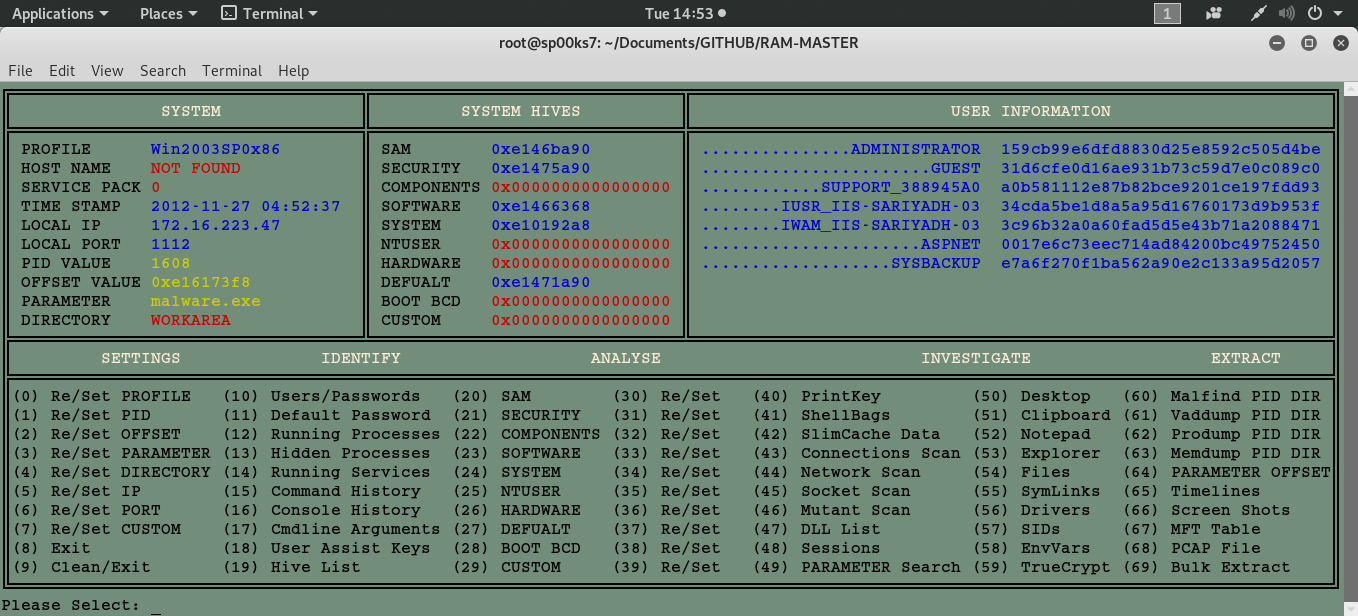
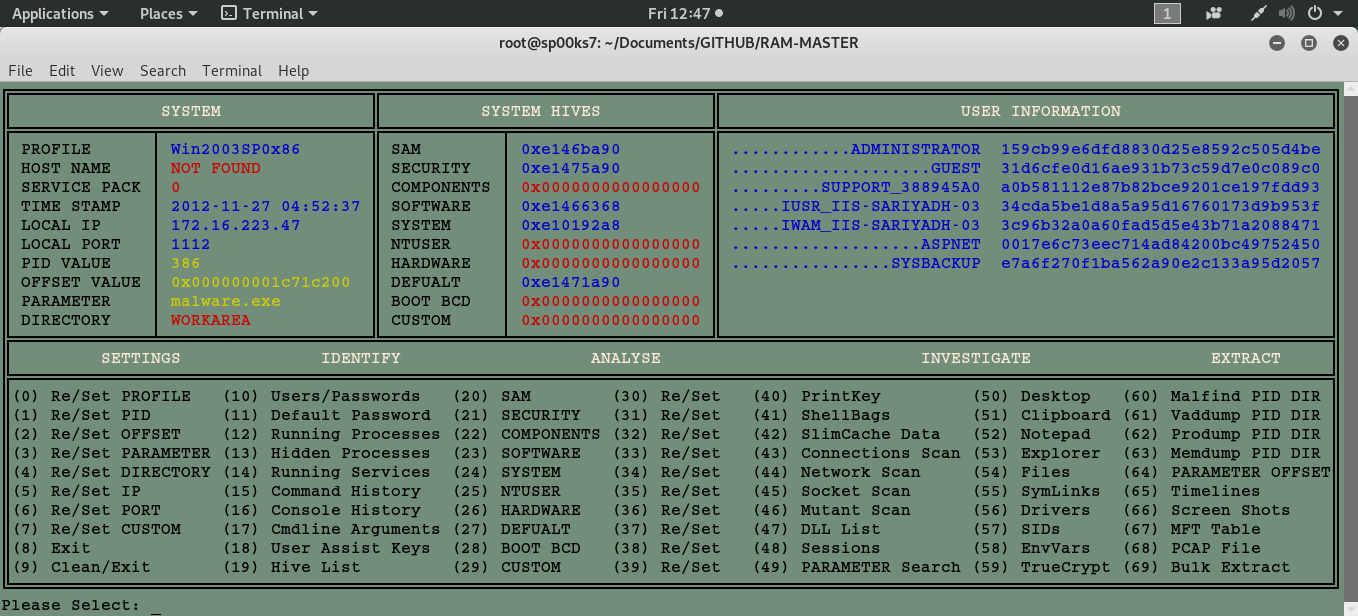
changes

diff --git a/RamMaster.py b/RamMaster.py
@@ -74,7 +74,7 @@ def rpadding(variable,value):
 
 COL1 = 19
 COL2 = 18
-COL3 = 29
+COL3 = 26
 COL4 = 32
 MAN1 = 0
 MAN2 = 0
@@ -308,16 +308,16 @@ os.remove('conn1.txt')
 # -------------------------------------------------------------------------------------
 
 def Display():
-   print u'\u2554' + (u'\u2550')*35 + u'\u2566' + (u'\u2550')*31 + u'\u2566' + (u'\u2550')*64 + u'\u2557'
-   print u'\u2551' + (" ")*15 + colored("SYSTEM",'white') +  (" ")*14 + u'\u2551' + (" ")*9 + colored("SYSTEM HIVES",'white') + (" ")*10 + u'\u2551' + (" ")*26 +  colored("USER INFORMATION",'white') + (" ")*22 + u'\u2551' 
-   print u'\u2560' + (u'\u2550')*35 + u'\u256C' + (u'\u2550')*31 + u'\u256C' + (u'\u2550')*64 + u'\u2563'
+   print u'\u2554' + (u'\u2550')*36 + u'\u2566' + (u'\u2550')*33 + u'\u2566' + (u'\u2550')*61 + u'\u2557'
+   print u'\u2551' + (" ")*15 + colored("SYSTEM",'white') +  (" ")*15 + u'\u2551' + (" ")*10 + colored("SYSTEM HIVES",'white') + (" ")*11 + u'\u2551' + (" ")*24 +  colored("USER INFORMATION",'white') + (" ")*21 + u'\u2551' 
+   print u'\u2560' + (u'\u2550')*14 + u'\u2564' + (u'\u2550')*21 + u'\u256C' + (u'\u2550')*12 + u'\u2564' + (u'\u2550')*20 + u'\u256C' + (u'\u2550')*61 + u'\u2563'
    
-   print u'\u2551' + " PROFILE     ",
+   print u'\u2551' + " PROFILE      " + u'\u2502',
    if PR2 == "UNSELECTED         ":
       print colored(PR2,'red'),
    else:
       print colored(PR2,'blue'),
-   print " " + u'\u2551' + " SAM       ",
+   print u'\u2551' + " SAM        " + u'\u2502',
    if SAM == "0x0000000000000000":
       print colored(SAM,'red'),
    else:
@@ -327,12 +327,12 @@ def Display():
    print colored(PA[0],'blue'),
    print u'\u2551'
    
-   print u'\u2551' + " HOST NAME   ",
+   print u'\u2551' + " HOST NAME    " + u'\u2502',
    if HST == "NOT FOUND          ":
       print colored(HST[:20],'red'),
    else:
       print colored(HST[:20],'blue'),
-   print " " + u'\u2551' + " SECURITY  ",
+   print u'\u2551' + " SECURITY   " + u'\u2502',
    if SEC == "0x0000000000000000":
       print colored(SEC,'red'),
    else:
@@ -342,12 +342,12 @@ def Display():
    print colored(PA[1],'blue'),
    print u'\u2551'
    
-   print u'\u2551' + " SERVICE PACK",
+   print u'\u2551' + " SERVICE PACK " + u'\u2502',
    if SVP == "0                  ":
       print colored(SVP,'red'),
    else:
       print colored(SVP,'blue'),
-   print " " + u'\u2551' + " COMPONENTS",
+   print u'\u2551' + " COMPONENTS " + u'\u2502',
    if COM == "0x0000000000000000":
       print colored(COM,'red'),
    else:
@@ -357,12 +357,12 @@ def Display():
    print colored(PA[2],'blue'),
    print u'\u2551'
    
-   print u'\u2551' + " TIME STAMP  ",
+   print u'\u2551' + " TIME STAMP   " + u'\u2502',
    if DA2 == "NOT FOUND          ":
       print colored(DA2,'red'),
    else:
       print colored(DA2,'blue'),
-   print " " + u'\u2551' + " SOFTWARE  ",
+   print u'\u2551' + " SOFTWARE   " + u'\u2502',
    if SOF == "0x0000000000000000":
       print colored(SOF,'red'),
    else:
@@ -372,12 +372,12 @@ def Display():
    print colored(PA[3],'blue'),
    print u'\u2551'
    
-   print u'\u2551' + " LOCAL IP    ",
+   print u'\u2551' + " LOCAL IP     " + u'\u2502',
    if HIP == "000.000.000.000    ":
       print colored(HIP[:COL1],'red'),
    else:
       print colored(HIP[:COL1],'blue'),
-   print " " + u'\u2551' + " SYSTEM    ",
+   print u'\u2551' + " SYSTEM     " + u'\u2502',
    if SYS == "0x0000000000000000":
       print colored(SYS,'red'),
    else:
@@ -387,12 +387,12 @@ def Display():
    print colored(PA[4],'blue'),
    print u'\u2551'
    
-   print u'\u2551' + " LOCAL PORT  ",
+   print u'\u2551' + " LOCAL PORT   " + u'\u2502',
    if POR == "000                ":
       print colored(POR[:COL1],'red'),
    else:
       print colored(POR[:COL1],'blue'),
-   print " " + u'\u2551' + " NTUSER    ",
+   print u'\u2551' + " NTUSER     " + u'\u2502',
    if NTU == "0x0000000000000000":
       print colored(NTU,'red'),
    else:
@@ -402,12 +402,12 @@ def Display():
    print colored(PA[5],'blue'),
    print u'\u2551'
    
-   print u'\u2551' + " PID VALUE   ",
+   print u'\u2551' + " PID VALUE    " + u'\u2502',
    if PI1 == "0                  ":
       print colored(PI1[:COL1],'red'),
    else:
       print colored(PI1[:COL1],'yellow'),
-   print " " + u'\u2551' + " HARDWARE  ",
+   print u'\u2551' + " HARDWARE   " + u'\u2502',
    if HRD == "0x0000000000000000":
       print colored(HRD,'red'),
    else:
@@ -417,12 +417,12 @@ def Display():
    print colored(PA[6],'blue'),
    print u'\u2551'
    
-   print u'\u2551' + " OFFSET VALUE",
+   print u'\u2551' + " OFFSET VALUE " + u'\u2502',
    if OFF == "0                  ":
       print colored(OFF[:COL1],'red'),
    else:
       print colored(OFF[:COL1],'yellow'),
-   print " " + u'\u2551' + " DEFUALT   ",
+   print u'\u2551' + " DEFUALT    " + u'\u2502',
    if DEF == "0x0000000000000000":
       print colored(DEF,'red'),
    else:
@@ -432,12 +432,12 @@ def Display():
    print colored(PA[7],'blue'),
    print u'\u2551'
    
-   print u'\u2551' + " PARAMETER   ",
+   print u'\u2551' + " PARAMETER    " + u'\u2502',
    if PRM == "UNSELECTED         ":
       print colored(PRM[:COL1],'red'),
    else:
       print colored(PRM[:COL1],'yellow'),
-   print " " + u'\u2551' + " BOOT BCD  ",
+   print u'\u2551' + " BOOT BCD   " + u'\u2502',
    if BCD == "0x0000000000000000":
       print colored(BCD,'red'),
    else:
@@ -447,12 +447,12 @@ def Display():
    print colored(PA[8],'blue'),
    print u'\u2551'
    
-   print u'\u2551' + " DIRECTORY   ",
+   print u'\u2551' + " DIRECTORY    " + u'\u2502',
    if DIR == "WORKAREA           ":
       print colored(DIR[:COL1],'red'),
    else:
       print colored(DIR[:COL1],'yellow'),
-   print " " + u'\u2551' + " " + NAM[:9] + " ",
+   print u'\u2551' + " " + NAM[:9] + "  " + u'\u2502',
    if CUS == "0x0000000000000000":
       print colored(CUS,'red'),
    else:
@@ -462,7 +462,7 @@ def Display():
    print colored(PA[9],'blue'),
    print u'\u2551'
 
-   print u'\u2560' + (u'\u2550')*35 + u'\u2569' + (u'\u2550')*31 + u'\u2569' + (u'\u2550')*64 + u'\u2563'
+   print u'\u2560' + (u'\u2550')*14 + u'\u2567'+ (u'\u2550')*21  + u'\u2569' + (u'\u2550')*12 + u'\u2567' + (u'\u2550')*20 + u'\u2569' + (u'\u2550')*61 + u'\u2563'
 
 # ----------------------------------------------------------------------------------------------------------------------------------------------------
 

diff --git a/README.md b/README.md
@@ -5,7 +5,7 @@ Usage: python RamMaster dumpfile.mem
 
 | LANGUAGE  | FILENAME         | MD5 Hash                         |
 |------     |------            | -------                          |
-| python    | RamMaster.py     | db15bfc0f7ed4aa1022a73c7390adca3 |
+| python    | RamMaster.py     | 8b8371380ffaed344846aad8f050a8aa |
 | text file | profiles.txt     | ba638a0a6f9d322100809bd6e67427d6 |
 | bash file | patch.sh         | 7a4231731982e09d9a703f7357170755 |
 
